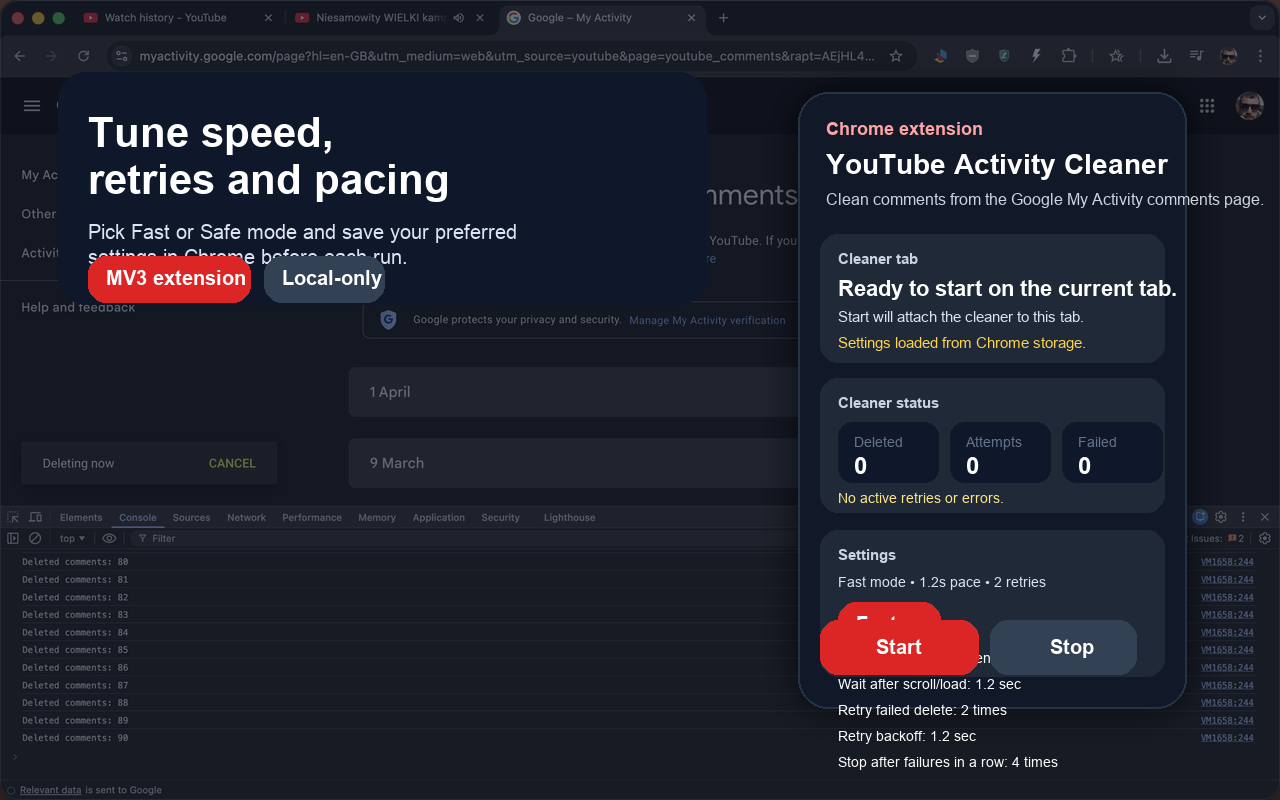
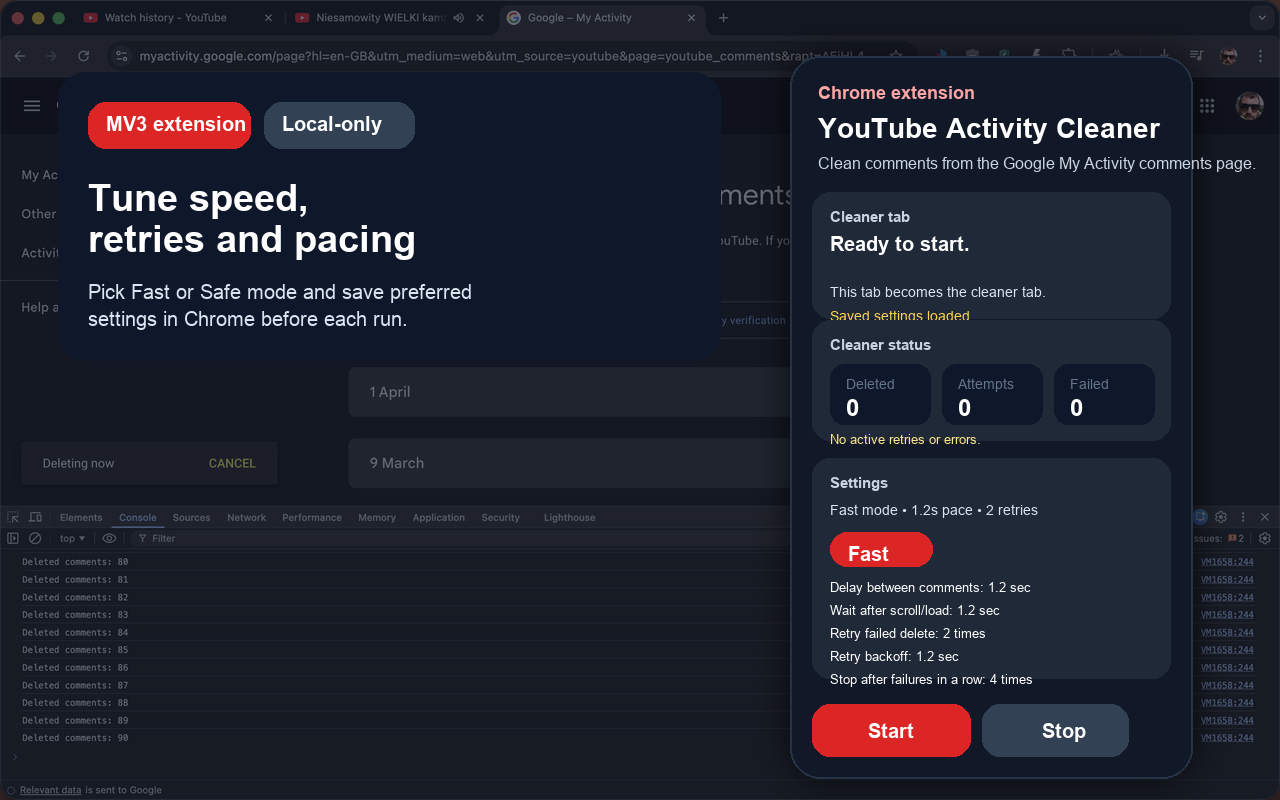
Polish store assets and add screenshot follow-up docs

diff --git a/scripts/generate_store_assets.py b/scripts/generate_store_assets.py
@@ -86,6 +86,26 @@ def add_noise_dots(image: Image.Image, opacity: int = 32, step: int = 28) -> Non
       draw.ellipse((x - radius, y - radius, x + radius, y + radius), fill=(255, 255, 255, opacity))
 
 
+def wrap_text(text: str, width: int) -> str:
+  words = text.split()
+  if not words:
+    return ""
+
+  lines: list[str] = []
+  current = words[0]
+
+  for word in words[1:]:
+    candidate = f"{current} {word}"
+    if len(candidate) <= width:
+      current = candidate
+    else:
+      lines.append(current)
+      current = word
+
+  lines.append(current)
+  return "\n".join(lines)
+
+
 def draw_brand_icon(size: int) -> Image.Image:
   image = draw_vertical_gradient((size, size), "#b91c1c", "#f97316")
   draw = ImageDraw.Draw(image)
@@ -172,7 +192,7 @@ def draw_popup_panel(
   expanded_settings: bool,
 ) -> None:
   draw = ImageDraw.Draw(image)
-  panel_box = (798, 92, 1186, 708)
+  panel_box = (790, 56 if expanded_settings else 92, 1192, 778 if expanded_settings else 708)
   shadow = Image.new("RGBA", image.size, (0, 0, 0, 0))
   shadow_draw = ImageDraw.Draw(shadow)
   shadow_draw.rounded_rectangle(panel_box, radius=30, fill=(0, 0, 0, 180))
@@ -187,14 +207,32 @@ def draw_popup_panel(
   draw.text((x0 + 28, y0 + 56), "YouTube Activity Cleaner", font=load_font(28, bold=True), fill=WHITE)
   draw.text((x0 + 28, y0 + 98), "Clean comments from the Google My Activity comments page.", font=load_font(16), fill=SLATE_300)
 
-  section_box = (x0 + 22, y0 + 142, x1 - 22, y0 + 270)
+  section_box = (x0 + 22, y0 + 136, x1 - 22, y0 + 262)
   draw.rounded_rectangle(section_box, radius=18, fill=SLATE_800)
   draw.text((section_box[0] + 18, section_box[1] + 16), "Cleaner tab", font=load_font(15, bold=True), fill=SLATE_300)
-  draw.text((section_box[0] + 18, section_box[1] + 42), title, font=load_font(22, bold=True), fill=WHITE)
-  draw.text((section_box[0] + 18, section_box[1] + 74), subtitle, font=load_font(15), fill="#dbe4f0")
-  draw.text((section_box[0] + 18, section_box[1] + 100), run_message, font=load_font(15), fill="#fcd34d")
+  draw.multiline_text(
+    (section_box[0] + 18, section_box[1] + 40),
+    wrap_text(title, 28),
+    font=load_font(20, bold=True),
+    fill=WHITE,
+    spacing=4,
+  )
+  draw.multiline_text(
+    (section_box[0] + 18, section_box[1] + 92),
+    wrap_text(subtitle, 34),
+    font=load_font(14),
+    fill="#dbe4f0",
+    spacing=4,
+  )
+  draw.multiline_text(
+    (section_box[0] + 18, section_box[1] + 116),
+    wrap_text(run_message, 34),
+    font=load_font(14),
+    fill="#fcd34d",
+    spacing=4,
+  )
 
-  stats_box = (x0 + 22, y0 + 286, x1 - 22, y0 + 420)
+  stats_box = (x0 + 22, y0 + 264, x1 - 22, y0 + 384)
   draw.rounded_rectangle(stats_box, radius=18, fill=SLATE_800)
   draw.text((stats_box[0] + 18, stats_box[1] + 16), "Cleaner status", font=load_font(15, bold=True), fill=SLATE_300)
 
@@ -212,14 +250,25 @@ def draw_popup_panel(
     draw.text((box[0] + 16, box[1] + 12), label, font=load_font(14), fill=SLATE_500)
     draw.text((box[0] + 16, box[1] + 30), value, font=load_font(24, bold=True), fill=WHITE)
 
-  draw.text((stats_box[0] + 18, stats_box[1] + 112), debug, font=load_font(14), fill="#fde68a")
+  draw.multiline_text(
+    (stats_box[0] + 18, stats_box[1] + 112),
+    wrap_text(debug, 42),
+    font=load_font(13),
+    fill="#fde68a",
+    spacing=4,
+  )
 
-  settings_box = (x0 + 22, y0 + 438, x1 - 22, y0 + 584 if expanded_settings else y0 + 520)
+  settings_box = (
+    x0 + 22,
+    y0 + 402,
+    x1 - 22,
+    y0 + 622 if expanded_settings else y0 + 492,
+  )
   draw.rounded_rectangle(settings_box, radius=18, fill=SLATE_800)
   draw.text((settings_box[0] + 18, settings_box[1] + 16), "Settings", font=load_font(15, bold=True), fill=SLATE_300)
   draw.text((settings_box[0] + 18, settings_box[1] + 44), settings_preview, font=load_font(14), fill="#dbe4f0")
 
-  mode_box = (settings_box[0] + 18, settings_box[1] + 72, settings_box[0] + 120, settings_box[1] + 108)
+  mode_box = (settings_box[0] + 18, settings_box[1] + 74, settings_box[0] + 120, settings_box[1] + 108)
   draw_chip(draw, mode_box, settings_mode, RED if settings_mode == "Fast" else SLATE_700)
 
   if expanded_settings:
@@ -231,11 +280,11 @@ def draw_popup_panel(
       "Stop after failures in a row: 4 times",
     ]
     for index, field in enumerate(fields):
-      top = settings_box[1] + 120 + index * 26
-      draw.text((settings_box[0] + 18, top), field, font=load_font(14), fill=WHITE)
+      top = settings_box[1] + 122 + index * 23
+      draw.text((settings_box[0] + 18, top), field, font=load_font(13), fill=WHITE)
 
-  start_box = (x0 + 22, y1 - 88, x0 + 180, y1 - 34)
-  stop_box = (x0 + 192, y1 - 88, x0 + 338, y1 - 34)
+  start_box = (x0 + 22, y1 - 74, x0 + 180, y1 - 22)
+  stop_box = (x0 + 192, y1 - 74, x0 + 338, y1 - 22)
   draw.rounded_rectangle(start_box, radius=18, fill=RED)
   draw.rounded_rectangle(stop_box, radius=18, fill=SLATE_700)
   draw.text((start_box[0] + 56, start_box[1] + 15), "Start", font=load_font(20, bold=True), fill=WHITE)
@@ -246,11 +295,11 @@ def draw_store_screenshot(path: Path, heading: str, body: str, popup_variant: di
   image = fit_background((1280, 800))
   draw = ImageDraw.Draw(image)
 
-  draw.rounded_rectangle((58, 72, 706, 304), radius=28, fill=(15, 23, 42, 224))
-  draw.multiline_text((88, 108), heading, font=load_font(42, bold=True), fill=WHITE, spacing=8)
-  draw.multiline_text((88, 220), body, font=load_font(20), fill="#dbe4f0", spacing=6)
-  draw_chip(draw, (88, 256, 250, 302), "MV3 extension", fill=RED)
-  draw_chip(draw, (264, 256, 384, 302), "Local-only", fill=SLATE_700)
+  draw.rounded_rectangle((58, 72, 720, 360), radius=28, fill=(15, 23, 42, 228))
+  draw_chip(draw, (88, 102, 250, 148), "MV3 extension", fill=RED)
+  draw_chip(draw, (264, 102, 414, 148), "Local-only", fill=SLATE_700)
+  draw.multiline_text((88, 176), heading, font=load_font(38, bold=True), fill=WHITE, spacing=6)
+  draw.multiline_text((88, 280), body, font=load_font(20), fill="#dbe4f0", spacing=8)
 
   draw_popup_panel(image, **popup_variant)
   image.save(path)
@@ -260,19 +309,79 @@ def draw_promo_tile(path: Path, size: tuple[int, int], title: str, subtitle: str
   image = draw_vertical_gradient(size, "#0f172a", "#1f2937")
   add_noise_dots(image, opacity=26, step=36)
   draw = ImageDraw.Draw(image)
-  icon = draw_brand_icon(220).resize((148, 148), Image.Resampling.LANCZOS)
-  image.alpha_composite(icon, (48, size[1] // 2 - 74))
+  if size[0] <= 500:
+    glow = Image.new("RGBA", size, (0, 0, 0, 0))
+    glow_draw = ImageDraw.Draw(glow)
+    glow_draw.ellipse((18, 40, 170, 220), fill=(239, 68, 68, 72))
+    glow_draw.ellipse((230, 160, 420, 300), fill=(249, 115, 22, 54))
+    glow = glow.filter(ImageFilter.GaussianBlur(radius=38))
+    image.alpha_composite(glow)
 
-  draw.text((228, 72), title, font=load_font(44 if size[0] > 500 else 32, bold=True), fill=WHITE)
-  draw.text((228, 138), subtitle, font=load_font(20 if size[0] > 500 else 16), fill="#dbe4f0")
+    icon = draw_brand_icon(220).resize((96, 96), Image.Resampling.LANCZOS)
+    image.alpha_composite(icon, (34, 92))
 
-  if show_badges:
-    draw_chip(draw, (228, 190, 390, 236), "Fast mode", fill=RED)
-    draw_chip(draw, (402, 190, 604, 236), "Chrome Web Store", fill=SLATE_700)
+    draw.text((150, 72), wrap_text(title, 16), font=load_font(28, bold=True), fill=WHITE, spacing=2)
+    draw.multiline_text(
+      (150, 148),
+      wrap_text(subtitle, 24),
+      font=load_font(16),
+      fill="#dbe4f0",
+      spacing=4,
+    )
 
-  draw.rounded_rectangle((size[0] - 240, 44, size[0] - 42, size[1] - 44), radius=30, fill=(255, 255, 255, 18))
-  draw.text((size[0] - 214, 74), "Deletes comments\nfrom Google My Activity", font=load_font(20, bold=True), fill=WHITE, spacing=6)
-  draw.text((size[0] - 214, 168), "No account login,\nserver sync or cloud storage.", font=load_font(16), fill="#dbe4f0", spacing=6)
+    if show_badges:
+      draw_chip(draw, (150, 204, 266, 240), "Fast", fill=RED)
+      draw_chip(draw, (278, 204, 404, 240), "Local-only", fill=SLATE_700)
+  else:
+    glow = Image.new("RGBA", size, (0, 0, 0, 0))
+    glow_draw = ImageDraw.Draw(glow)
+    glow_draw.ellipse((30, 90, 420, 470), fill=(239, 68, 68, 70))
+    glow_draw.ellipse((960, 40, 1380, 500), fill=(249, 115, 22, 44))
+    glow = glow.filter(ImageFilter.GaussianBlur(radius=58))
+    image.alpha_composite(glow)
+
+    icon = draw_brand_icon(220).resize((148, 148), Image.Resampling.LANCZOS)
+    image.alpha_composite(icon, (76, 192))
+
+    draw.multiline_text((268, 112), wrap_text(title, 20), font=load_font(54, bold=True), fill=WHITE, spacing=4)
+    draw.text((270, 214), subtitle, font=load_font(27), fill="#dbe4f0")
+
+    if show_badges:
+      draw_chip(draw, (270, 278, 432, 324), "Fast mode", fill=RED)
+      draw_chip(draw, (444, 278, 664, 324), "Chrome Web Store", fill=SLATE_700)
+
+    preview_box = (1024, 84, 1328, 476)
+    shadow = Image.new("RGBA", size, (0, 0, 0, 0))
+    shadow_draw = ImageDraw.Draw(shadow)
+    shadow_draw.rounded_rectangle(preview_box, radius=30, fill=(0, 0, 0, 170))
+    shadow = shadow.filter(ImageFilter.GaussianBlur(radius=24))
+    image.alpha_composite(shadow)
+
+    draw.rounded_rectangle(preview_box, radius=30, fill=(17, 24, 39, 236), outline="#334155", width=2)
+    draw.text((preview_box[0] + 22, preview_box[1] + 24), "YouTube Activity Cleaner", font=load_font(26, bold=True), fill=WHITE)
+    draw.text((preview_box[0] + 22, preview_box[1] + 62), "Fast mode", font=load_font(18, bold=True), fill="#fca5a5")
+
+    stat_boxes = [
+      (preview_box[0] + 22, preview_box[1] + 112, "Deleted", "214"),
+      (preview_box[0] + 128, preview_box[1] + 112, "Attempts", "221"),
+      (preview_box[0] + 234, preview_box[1] + 112, "Failed", "7"),
+    ]
+    for left, top, label, value in stat_boxes:
+      box = (left, top, left + 92, top + 82)
+      draw.rounded_rectangle(box, radius=16, fill=SLATE_950)
+      draw.text((box[0] + 14, box[1] + 12), label, font=load_font(13), fill=SLATE_500)
+      draw.text((box[0] + 14, box[1] + 34), value, font=load_font(24, bold=True), fill=WHITE)
+
+    draw.text(
+      (preview_box[0] + 22, preview_box[1] + 228),
+      "Delete your own YouTube comments from\nGoogle My Activity with saved local settings.",
+      font=load_font(18),
+      fill="#dbe4f0",
+      spacing=6,
+    )
+    button = (preview_box[0] + 22, preview_box[1] + 304, preview_box[0] + 156, preview_box[1] + 352)
+    draw.rounded_rectangle(button, radius=18, fill=RED)
+    draw.text((button[0] + 42, button[1] + 12), "Start", font=load_font(20, bold=True), fill=WHITE)
 
   image.save(path)
 
@@ -293,13 +402,13 @@ def generate_store_images() -> None:
     STORE_ASSETS_DIR / "small-promo-tile-440x280.png",
     (440, 280),
     "YouTube Activity Cleaner",
-    "Bulk-clean YouTube comments from Google My Activity.",
+    "Delete old YouTube comments from Google My Activity.",
   )
   draw_promo_tile(
     STORE_ASSETS_DIR / "marquee-promo-tile-1400x560.png",
     (1400, 560),
     "YouTube Activity Cleaner",
-    "Fast, local-first cleanup for the Google My Activity comments page.",
+    "Fast local cleanup for the Google My Activity comments page.",
   )
 
   draw_store_screenshot(
@@ -307,13 +416,13 @@ def generate_store_images() -> None:
     "Clean old YouTube\ncomments faster",
     "Open the Google My Activity comments page,\nclick Start and let the cleaner repeat the delete flow.",
     {
-      "title": "Ready on the YouTube comments page.",
-      "subtitle": "Using the current tab for cleaner commands.",
-      "run_message": "Fast mode • 1.2s pace • 2 retries",
+      "title": "Ready on the comments page.",
+      "subtitle": "Current tab connected.",
+      "run_message": "Fast mode",
       "deleted": "0",
       "attempts": "0",
       "failed": "0",
-      "debug": "Keep-awake will be enabled automatically while cleaning is running.",
+      "debug": "Keep-awake turns on during cleanup.",
       "settings_preview": "Fast mode • 1.2s pace • 2 retries",
       "settings_mode": "Fast",
       "expanded_settings": False,
@@ -324,9 +433,9 @@ def generate_store_images() -> None:
     "Watch progress,\nretries and failures",
     "Use the popup to track counters, retry timing\nand the latest status while cleanup runs.",
     {
-      "title": "Connected to a cleaner tab in another tab.",
-      "subtitle": "Using: Your YouTube comments - Google My Activity",
-      "run_message": "Deleted comments: 214",
+      "title": "Cleaner tab connected.",
+      "subtitle": "Your YouTube comments page.",
+      "run_message": "Deleted: 214",
       "deleted": "214",
       "attempts": "221",
       "failed": "7",
@@ -339,11 +448,11 @@ def generate_store_images() -> None:
   draw_store_screenshot(
     STORE_ASSETS_DIR / "screenshot-03-settings-1280x800.png",
     "Tune speed,\nretries and pacing",
-    "Pick Fast or Safe mode and save your preferred\nsettings in Chrome before each run.",
+    "Pick Fast or Safe mode and save preferred\nsettings in Chrome before each run.",
     {
-      "title": "Ready to start on the current tab.",
-      "subtitle": "Start will attach the cleaner to this tab.",
-      "run_message": "Settings loaded from Chrome storage.",
+      "title": "Ready to start.",
+      "subtitle": "This tab becomes the cleaner tab.",
+      "run_message": "Saved settings loaded",
       "deleted": "0",
       "attempts": "0",
       "failed": "0",

diff --git a/store/chrome-web-store-listing.md b/store/chrome-web-store-listing.md
@@ -54,6 +54,12 @@ Important:
 - Screenshot 2: [screenshot-02-fast-mode-1280x800.png](/Users/michal/Documents/PlatformIO/Projects/yt-comments/store/assets/screenshot-02-fast-mode-1280x800.png)
 - Screenshot 3: [screenshot-03-settings-1280x800.png](/Users/michal/Documents/PlatformIO/Projects/yt-comments/store/assets/screenshot-03-settings-1280x800.png)
 
+TODO before the next listing refresh:
+
+- Replace the generated/mock screenshots with real captures from the live extension popup on the Google My Activity comments page
+- Capture one clear running-state screenshot with the popup open and progress counters visible
+- Re-export the final chosen screenshots to the Chrome Web Store required size without browser clutter
+
 ## Manual Items Still To Decide
 
 - Final public pricing model: free, donation, or paid service around the extension

diff --git a/README.md b/README.md
@@ -2,6 +2,10 @@
 
 Delete your YouTube comments from Google My Activity.
 
+Project site:
+
+`https://michalmatu.github.io/youtube-activity-cleaner/`
+
 You can use:
 
 - the Chrome extension in [`extension/`](extension/) for the easiest flow
@@ -96,6 +100,10 @@ This repo now includes:
 - GitHub Pages-ready site files in [`docs/`](docs/)
 - Store listing drafts and reviewer notes in [`store/`](store/)
 - Generated icons and promotional assets in [`store/assets/`](store/assets/)
+
+Store asset TODO:
+
+- replace generated/mock listing screenshots with final real captures from the live extension popup on `Google My Activity -> Your YouTube comments`
 
 Recommended next step before publishing:
 

diff --git a/store/release-checklist.md b/store/release-checklist.md
@@ -19,6 +19,8 @@ Prepared on April 10, 2026.
 - [ ] Enable GitHub Pages from the `docs/` directory
 - [ ] Verify the final public URLs in the store listing
 - [ ] Review screenshots and promo assets one last time
+- [ ] Replace placeholder/generated store screenshots with final real captures from the live extension UI
+- [ ] Add one strong running-state screenshot with the popup open and `Deleted > 0`
 - [ ] Decide whether first release should be `unlisted` or `public`
 - [ ] Decide final monetization model
 - [ ] Decide repository/distribution license
